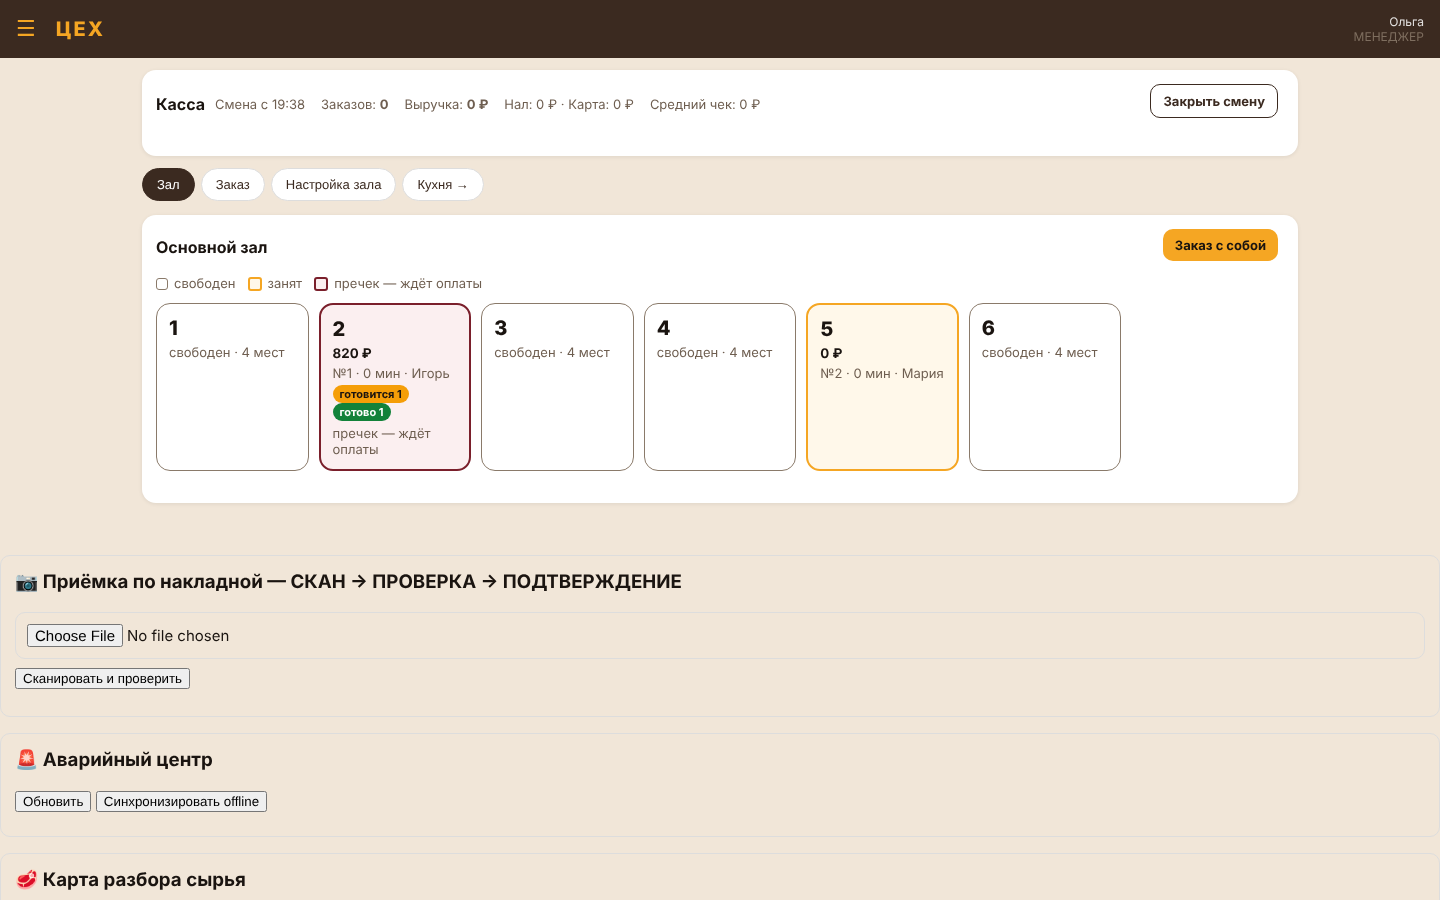
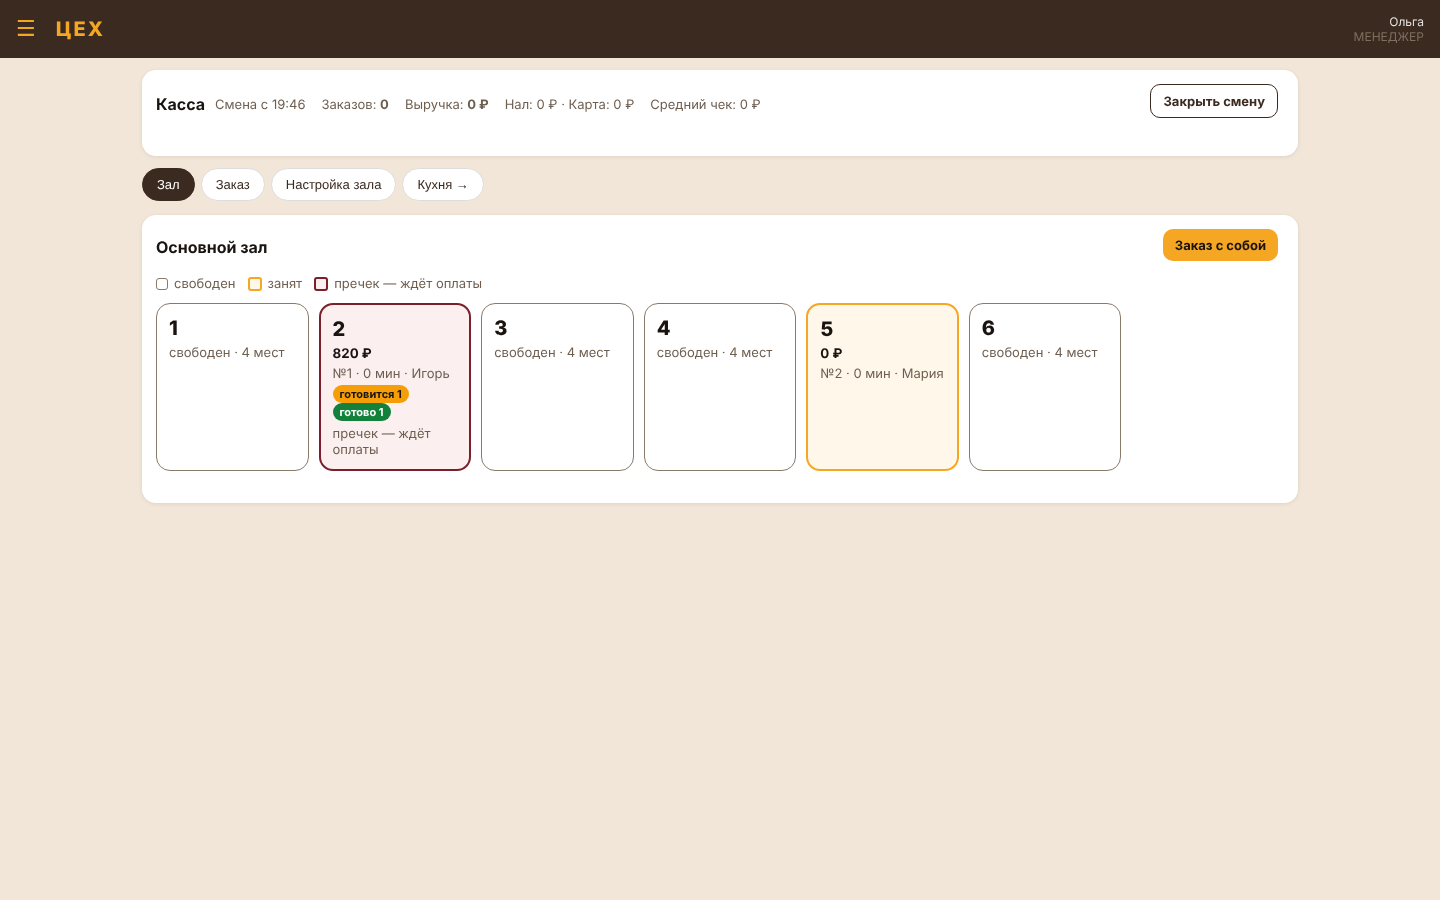
Index.html: разнести три карточки по разделам
«Приёмка по накладной», «Аварийный центр» и «Карта разбора сырья» стояли после
</main> и показывались под любым разделом, со встроенными стилями и системными
кнопками. Теперь они внутри «Склада», «Восстановления» и «Производства», в
стиле ЦЕХ (.card/.btn): русская кнопка выбора файла, понятный итог
распознавания накладной, сводка аварийного центра по группам вместо JSON,
выбор карты разбора из списка (ручной ID — только если список недоступен).
Серверные действия не менялись.

Claude-Session: https://claude.ai/code/session_01TtYS2sTh7C8pE1SCJzegNd

diff --git a/gas/Index.html b/gas/Index.html
@@ -397,6 +397,16 @@
       <div class="err" id="npErr"></div>
     </div>
 
+    <!-- Приёмка по накладной (перенесено из-за пределов <main>; сервер: SCAN_INVOICE_PREVIEW / CONFIRM_INVOICE_RECEIPT). -->
+    <div class="card" id="enterprise-intake" data-module-gate="warehouse_receive">
+      <h2>📷 Приёмка по накладной</h2>
+      <p class="muted">Сфотографируйте накладную или загрузите PDF. Система распознает документ, проверит его и предложит провести приход.</p>
+      <label class="fileBtn" for="invoice-file">Сфотографировать или выбрать накладную</label>
+      <input id="invoice-file" class="hidden" type="file" accept="image/*,application/pdf" capture="environment" onchange="invoiceFileChosen()">
+      <div id="invoice-file-name" class="muted"></div>
+      <button class="btn" onclick="scanAndReceiveInvoiceUI()">Распознать и проверить</button>
+      <div id="invoice-result" aria-live="polite"></div>
+    </div>
     <div class="card"><h2>Склад</h2><table id="tblWarehouse"><thead><tr><th>Продукт</th><th>Остаток</th></tr></thead><tbody></tbody></table></div>
   </section>
 
@@ -418,6 +428,19 @@
         <button class="btn secondary small" style="width:auto;" onclick="document.getElementById('recoveryDetailCard').classList.add('hidden')">Закрыть</button>
       </div>
       <div id="recoveryDetail"></div>
+    </div>
+    <!-- Аварийный центр (перенесено из-за пределов <main>; сервер: GET_EMERGENCY_CENTER / SYNC_OFFLINE_QUEUE). -->
+    <div class="card" id="stage11-center">
+      <div class="row-between">
+        <h2 style="margin:0;">🚨 Аварийный центр</h2>
+        <button class="btn secondary small" style="width:auto;" onclick="loadEmergencyCenterUI()">Обновить</button>
+      </div>
+      <p class="muted">Критические инциденты, карантин, отклонения, просроченные задачи, аварии оборудования и проблемные накладные — в одном месте.</p>
+      <div id="stage11-emergency" aria-live="polite"></div>
+      <div class="row-between" style="margin-top:10px;">
+        <span id="offline-queue-info" class="muted"></span>
+        <button class="btn secondary small" style="width:auto;" data-module-gate="offline" onclick="syncOfflineUI()">Отправить сохранённое без сети</button>
+      </div>
     </div>
   </section>
 
@@ -1044,6 +1067,18 @@
         </select>
       </div>
       <div id="productionList" class="muted">Загрузка…</div>
+    </div>
+    <!-- Карта разбора сырья (перенесено из-за пределов <main>; сервер: GET_BREAKDOWN_PLANS / GET_BREAKDOWN_PLAN_MAP). -->
+    <div class="card" id="breakdown-map-ui">
+      <h2>🥩 Карта разбора сырья</h2>
+      <label for="breakdown-plan-select" class="muted">Карта разбора</label>
+      <select id="breakdown-plan-select" onchange="loadBreakdownMapUI()"><option value="">— выберите карту —</option></select>
+      <div id="breakdown-plan-manual" class="hidden">
+        <label for="breakdown-plan-id" class="muted">ID карты разбора</label>
+        <input id="breakdown-plan-id" placeholder="Например: BRP-1A2B3C4D">
+        <button class="btn secondary" onclick="loadBreakdownMapUI()">Открыть карту</button>
+      </div>
+      <div id="breakdown-map-result" aria-live="polite"></div>
     </div>
   </section>
 
@@ -1721,6 +1756,8 @@
     posStopPolling();
     if (name === 'pos') initPosView();
     if (name === 'kitchen') initKitchenView();
+    if (name === 'recovery') loadEmergencyCenterUI();
+    if (name === 'production') loadBreakdownPlansUI();
   }
 
   function loadRecoveryView() {
@@ -4651,59 +4688,69 @@
 </script>
 
 
-<div id="enterprise-intake" style="margin:16px 0;padding:14px;border:1px solid #ddd;border-radius:10px;">
-  <h3 style="margin-top:0">📷 Приёмка по накладной — СКАН → ПРОВЕРКА → ПОДТВЕРЖДЕНИЕ</h3>
-  <input id="invoice-file" type="file" accept="image/*,application/pdf" capture="environment">
-  <button onclick="scanAndReceiveInvoiceUI()">Сканировать и проверить</button>
-  <pre id="invoice-result" style="white-space:pre-wrap"></pre>
-</div>
-<div id="stage11-center" style="margin:16px 0;padding:14px;border:1px solid #ddd;border-radius:10px;">
-  <h3 style="margin-top:0">🚨 Аварийный центр</h3>
-  <button onclick="loadEmergencyCenterUI()">Обновить</button>
-  <button onclick="syncOfflineUI()">Синхронизировать offline</button>
-  <div id="stage11-emergency" style="margin-top:10px"></div>
-</div>
 <script>
+/* Приёмка по накладной, аварийный центр, offline-очередь. Серверные действия прежние. */
 var LAST_INVOICE_DRAFT_ID='';
-function scanAndReceiveInvoiceUI(){var f=document.getElementById('invoice-file').files[0];if(!f){alert('Выберите фото/скан.');return;}var out=document.getElementById('invoice-result');out.textContent='Распознавание и контроль…';var r=new FileReader();r.onload=function(){call('SCAN_INVOICE_PREVIEW',{base64Image:String(r.result).split(',')[1],mimeType:f.type},function(x){LAST_INVOICE_DRAFT_ID=x.draft_id||'';var blocked=x.status==='BLOCKED'||(x.integrity&&['CONFLICT','DUPLICATE','REVIEW'].indexOf(x.integrity.status)!==-1);var h='<b>Статус:</b> '+compEsc(x.status)+'<br><b>Документ:</b> '+compEsc((x.document||{}).invoice_number||'—')+' от '+compEsc((x.document||{}).invoice_date||'—')+'<br><b>Целостность:</b> '+compEsc((x.integrity||{}).status||'—');if((x.integrity||{}).reasons&&x.integrity.reasons.length)h+='<div style="color:#b00">'+compEsc(x.integrity.reasons.join('; '))+'</div>';if((x.errors||[]).length)h+='<pre>'+compEsc(JSON.stringify(x.errors,null,2))+'</pre>';if(!blocked&&LAST_INVOICE_DRAFT_ID)h+='<button onclick="confirmInvoiceReceiptUI()">✅ Подтвердить приёмку</button>';out.innerHTML=h;},function(e){out.textContent=String(e);});};r.readAsDataURL(f);}
-function confirmInvoiceReceiptUI(){var out=document.getElementById('invoice-result');out.textContent='Повторная проверка и проведение…';call('CONFIRM_INVOICE_RECEIPT',{draftId:LAST_INVOICE_DRAFT_ID,confirmed:true},function(x){out.innerHTML='<b>✅ Проведено</b><pre>'+compEsc(JSON.stringify(x,null,2))+'</pre>';},function(e){out.innerHTML='<b style="color:#b00">⛔ '+compEsc(String(e))+'</b>';});}
-function loadEmergencyCenterUI(){call('GET_EMERGENCY_CENTER',{},function(x){document.getElementById('stage11-emergency').innerHTML='<pre>'+compEsc(JSON.stringify(x,null,2))+'</pre>';},function(e){document.getElementById('stage11-emergency').textContent=String(e);});}
-function queueOfflineUI(action,payload){var q=JSON.parse(localStorage.getItem('TSEKH_OFFLINE_QUEUE')||'[]');q.push({operationId:'OFF-'+Date.now(),action:action,payload:payload,createdAt:new Date().toISOString()});localStorage.setItem('TSEKH_OFFLINE_QUEUE',JSON.stringify(q));}
-function syncOfflineUI(){var q=JSON.parse(localStorage.getItem('TSEKH_OFFLINE_QUEUE')||'[]');if(!q.length){alert('Offline-очередь пуста.');return;}var token=localStorage.getItem('tsekh_token')||'';call('SYNC_OFFLINE_QUEUE',{queueIds:[],token:token},function(x){localStorage.removeItem('TSEKH_OFFLINE_QUEUE');alert('Синхронизация: '+JSON.stringify(x));},function(e){alert(String(e));});}
+var INTEGRITY_TEXT_={OK:'в порядке',CONFLICT:'расхождение с данными системы',DUPLICATE:'похоже на повтор уже проведённой накладной',REVIEW:'нужна проверка человеком'};
+var DRAFT_STATUS_TEXT_={DRAFT:'черновик',READY:'готова к проведению',BLOCKED:'заблокирована',POSTED:'проведена',PARTIAL:'проведена частично',RECOVERY_REQUIRED:'нужно восстановление'};
+function invoiceFileChosen(){var f=document.getElementById('invoice-file').files[0];document.getElementById('invoice-file-name').textContent=f?'Выбран файл: '+f.name:'';document.getElementById('invoice-result').innerHTML='';}
+function invoiceSummaryHtml_(x){
+  var doc=x.document||{},integ=x.integrity||{},h='';
+  h+='<div class="taskrow"><b>Накладная</b> № '+compEsc(doc.invoice_number||'—')+' от '+compEsc(doc.invoice_date||'—')+(doc.supplier_name?' · '+compEsc(doc.supplier_name):'')+'</div>';
+  h+='<div class="taskrow">Статус: <b>'+compEsc(DRAFT_STATUS_TEXT_[x.status]||x.status||'—')+'</b>'+(integ.status?' · Проверка: <b>'+compEsc(INTEGRITY_TEXT_[integ.status]||integ.status)+'</b>':'')+'</div>';
+  var lines=doc.lines||doc.items||x.lines||[];
+  if(lines.length){h+='<table style="margin-top:6px"><thead><tr><th>Позиция</th><th>Кол-во</th><th>Цена</th></tr></thead><tbody>'+lines.slice(0,50).map(function(l){return '<tr><td>'+compEsc(l.name||l.название||l.product_name||'—')+'</td><td>'+compEsc(l.qty||l.quantity||l.количество||'')+' '+compEsc(l.unit||l.единица||'')+'</td><td>'+compEsc(l.price||l.цена||'')+'</td></tr>';}).join('')+'</tbody></table>';}
+  if(integ.reasons&&integ.reasons.length)h+='<div class="err">'+integ.reasons.map(compEsc).join('<br>')+'</div>';
+  if((x.errors||[]).length)h+='<div class="err">'+x.errors.map(function(e){return compEsc(typeof e==='string'?e:(e.message||e.error||JSON.stringify(e)));}).join('<br>')+'</div>';
+  return h;
+}
+function scanAndReceiveInvoiceUI(){var f=document.getElementById('invoice-file').files[0];var out=document.getElementById('invoice-result');if(!f){out.innerHTML='<div class="err">Сначала сфотографируйте или выберите накладную.</div>';return;}out.innerHTML='<p class="muted">Распознаём и проверяем…</p>';var r=new FileReader();r.onload=function(){call('SCAN_INVOICE_PREVIEW',{base64Image:String(r.result).split(',')[1],mimeType:f.type},function(x){LAST_INVOICE_DRAFT_ID=x.draft_id||'';var blocked=x.status==='BLOCKED'||(x.integrity&&['CONFLICT','DUPLICATE','REVIEW'].indexOf(x.integrity.status)!==-1);var h=invoiceSummaryHtml_(x);if(!blocked&&LAST_INVOICE_DRAFT_ID)h+='<button class="btn" style="margin-top:10px" onclick="confirmInvoiceReceiptUI()">✅ Подтвердить и провести приход</button>';else if(blocked)h+='<p class="muted">Провести нельзя, пока не устранены замечания выше.</p>';out.innerHTML=h;},function(e){out.innerHTML='<div class="err">'+compEsc(String(e))+'</div>';});};r.readAsDataURL(f);}
+function confirmInvoiceReceiptUI(){var out=document.getElementById('invoice-result');out.innerHTML='<p class="muted">Повторная проверка и проведение…</p>';call('CONFIRM_INVOICE_RECEIPT',{draftId:LAST_INVOICE_DRAFT_ID,confirmed:true},function(x){var d=x.draft||x;out.innerHTML='<p><span class="badge b-ok">Проведено</span></p>'+invoiceSummaryHtml_({document:x.document||{},status:d.status,integrity:x.integrity,lines:x.lines});if(typeof loadWarehouse==='function')loadWarehouse();},function(e){out.innerHTML='<div class="err">⛔ '+compEsc(String(e))+'</div>';});}
+
+var EMERGENCY_GROUPS_=[['critical_incidents','Критические инциденты','b-crit'],['quarantines','Карантин','b-warn'],['deviations','Отклонения в журналах','b-warn'],['journal_deviations','Отклонения в журналах','b-warn'],['overdue_tasks','Просроченные задачи','b-warn'],['equipment_incidents','Аварии оборудования','b-crit'],['invoice_intake','Накладные с замечаниями','b-info']];
+function emergencyItemTitle_(r){return r.title||r.название||r.описание||r.description||r.reason||r.invoice_number||r.product_name||r.equipment_name||r.status||r.статус||'—';}
+function loadEmergencyCenterUI(){var el=document.getElementById('stage11-emergency');el.innerHTML='<p class="muted">Загрузка…</p>';updateOfflineQueueInfo_();call('GET_EMERGENCY_CENTER',{},function(x){var seen={},total=0,h='';EMERGENCY_GROUPS_.forEach(function(g){var rows=x[g[0]];if(!Array.isArray(rows)||seen[g[1]])return;seen[g[1]]=1;total+=rows.length;if(!rows.length)return;h+='<div class="taskrow"><div class="row-between"><b>'+g[1]+'</b><span class="badge '+g[2]+'">'+rows.length+'</span></div>'+rows.slice(0,5).map(function(r){return '<div class="muted">• '+compEsc(String(emergencyItemTitle_(r)).slice(0,140))+'</div>';}).join('')+(rows.length>5?'<div class="muted">и ещё '+(rows.length-5)+'</div>':'')+'</div>';});el.innerHTML=total?h:'<p><span class="badge b-ok">Всё спокойно</span> Аварийных ситуаций нет.</p>';},function(e){el.innerHTML='<div class="err">'+compEsc(String(e))+'</div>';});}
+function queueOfflineUI(action,payload){var q=JSON.parse(localStorage.getItem('TSEKH_OFFLINE_QUEUE')||'[]');q.push({operationId:'OFF-'+Date.now(),action:action,payload:payload,createdAt:new Date().toISOString()});localStorage.setItem('TSEKH_OFFLINE_QUEUE',JSON.stringify(q));updateOfflineQueueInfo_();}
+function updateOfflineQueueInfo_(){var el=document.getElementById('offline-queue-info');if(!el)return;var n=0;try{n=JSON.parse(localStorage.getItem('TSEKH_OFFLINE_QUEUE')||'[]').length;}catch(e){}el.textContent=n?'Сохранено без сети: '+n:'Без сети ничего не сохранено.';}
+function syncOfflineUI(){var q=JSON.parse(localStorage.getItem('TSEKH_OFFLINE_QUEUE')||'[]');if(!q.length){updateOfflineQueueInfo_();alert('Сохранённых без сети операций нет.');return;}var token=localStorage.getItem('tsekh_token')||'';call('SYNC_OFFLINE_QUEUE',{queueIds:[],token:token},function(x){localStorage.removeItem('TSEKH_OFFLINE_QUEUE');updateOfflineQueueInfo_();var n=(x&&(x.synced||x.processed||x.count));alert('Отправлено'+(n!=null?': '+n:'')+'.');},function(e){alert(String(e));});}
 window.addEventListener('online',function(){if(localStorage.getItem('TSEKH_OFFLINE_QUEUE'))syncOfflineUI();});
 </script>
 
-<div id="breakdown-map-ui" style="margin:16px 0;padding:14px;border:1px solid #ddd;border-radius:10px;">
-  <h3 style="margin-top:0">🥩 Карта разбора сырья</h3>
-  <div style="display:flex;gap:8px;flex-wrap:wrap;align-items:center;">
-    <input id="breakdown-plan-id" placeholder="ID карты разбора" style="min-width:280px;padding:8px;">
-    <button onclick="loadBreakdownMapUI()">Открыть карту</button>
-  </div>
-  <div id="breakdown-map-result" style="margin-top:12px"></div>
-</div>
 <script>
+var BREAKDOWN_STATUS_TEXT_={DRAFT:'черновик',APPROVED:'утверждена',ARCHIVED:'в архиве',черновик:'черновик',утверждена:'утверждена'};
+function loadBreakdownPlansUI(){
+  var sel=document.getElementById('breakdown-plan-select');
+  call('GET_BREAKDOWN_PLANS',{},function(rows){
+    rows=rows||[];
+    document.getElementById('breakdown-plan-manual').classList.add('hidden');
+    sel.classList.remove('hidden');
+    sel.innerHTML='<option value="">'+(rows.length?'— выберите карту —':'Карт разбора пока нет')+'</option>'+rows.map(function(r){var p=r.plan||r;return '<option value="'+compEsc(p.plan_id)+'">'+compEsc(p.название||p.plan_id)+' · v'+compEsc(p.version||1)+' · '+compEsc(BREAKDOWN_STATUS_TEXT_[p.status]||p.status||'')+'</option>';}).join('');
+  },function(){sel.classList.add('hidden');document.getElementById('breakdown-plan-manual').classList.remove('hidden');});
+}
 function loadBreakdownMapUI(){
-  var id=(document.getElementById('breakdown-plan-id').value||'').trim();
+  var sel=document.getElementById('breakdown-plan-select');
+  var id=((sel&&!sel.classList.contains('hidden')?sel.value:document.getElementById('breakdown-plan-id').value)||'').trim();
   var out=document.getElementById('breakdown-map-result');
-  if(!id){out.textContent='Укажите ID утверждённой или черновой карты разбора.';return;}
+  if(!id){out.innerHTML='';return;}
   call('GET_BREAKDOWN_PLAN_MAP',{planId:id},function(x){
     var b=x||{};
     var plan=b.plan||{};
     var steps=b.steps||[];
     var map=b.map||[];
-    var html='<div style="padding:10px;border:1px solid #eee;border-radius:8px"><b>'+compEsc(plan.название||'Карта разбора')+'</b> · версия '+compEsc(plan.version||'')+' · статус '+compEsc(plan.status||'')+'</div>';
-    html+='<div style="margin-top:10px;display:grid;gap:8px">';
+    var html='<div class="taskrow"><b>'+compEsc(plan.название||'Карта разбора')+'</b> · версия '+compEsc(plan.version||'')+' · '+compEsc(BREAKDOWN_STATUS_TEXT_[plan.status]||plan.status||'')+'</div>';
+    if(!steps.length) html+='<p class="muted">В карте пока нет этапов разбора.</p>';
+    html+='<div>';
     steps.forEach(function(st){
       var node=map.find(function(m){return m.step && m.step.step_id===st.step_id;})||{outputs:[]};
-      html+='<div style="padding:10px;border:1px solid #ddd;border-radius:8px"><div><b>'+compEsc(st.step_no)+'. '+compEsc(st.название)+'</b> <span class="muted">['+compEsc(st.stage_type)+']</span></div>';
+      html+='<div class="taskrow"><div><b>'+compEsc(st.step_no)+'. '+compEsc(st.название)+'</b> <span class="muted">'+compEsc(st.stage_type)+'</span></div>';
       if(st.описание) html+='<div class="muted">'+compEsc(st.описание)+'</div>';
       if(st.expected_loss_pct!=='' && st.expected_loss_pct!==undefined) html+='<div>Нормативные потери: <b>'+compEsc(st.expected_loss_pct)+'%</b></div>';
-      if(node.outputs && node.outputs.length){html+='<ul style="margin:6px 0 0 18px">';node.outputs.forEach(function(o){html+='<li>'+compEsc(o.название||o.output_id_ref)+' — '+compEsc(o.planned_qty)+' '+compEsc(o.единица||'')+'</li>';});html+='</ul>';}
+      if(node.outputs && node.outputs.length){html+='<ul style="margin:6px 0 0 18px;padding:0;">';node.outputs.forEach(function(o){html+='<li>'+compEsc(o.название||o.output_id_ref)+' — '+compEsc(o.planned_qty)+' '+compEsc(o.единица||'')+'</li>';});html+='</ul>';}
       html+='</div>';
     });
     html+='</div>';
     out.innerHTML=html;
-  },function(e){out.textContent=String(e);});
+  },function(e){out.innerHTML='<div class="err">'+compEsc(String(e))+'</div>';});
 }
 </script>
 

diff --git a/replica/build-log.md b/replica/build-log.md
@@ -26,6 +26,6 @@
 - ~~`gas/Index.html`: хвост ~2800 строк после `</html>`~~ — убран (все строки дублировали основной документ; ошибка JS «Unexpected token '<'» исчезла). Было:
   начинающаяся посреди строки. Браузер выводит его текстом под приложением; на странице ошибка JS «Unexpected token '<'».
   Есть с первого коммита b392b88.
-- Карточки «Приёмка по накладной», «Аварийный центр», «Карта разбора сырья» видны под любым разделом.
+- ~~Карточки «Приёмка по накладной», «Аварийный центр», «Карта разбора сырья» видны под любым разделом~~ — перенесены в «Склад», «Восстановление», «Производство», оформлены в стиле ЦЕХ.
 - `install/Installer.gs` ставит файлы из ветки `claude/new-session-jd6imq`, а не из этой.
 - `DEPLOY_MANIFEST.json` (хэши файлов) не обновлялся.
